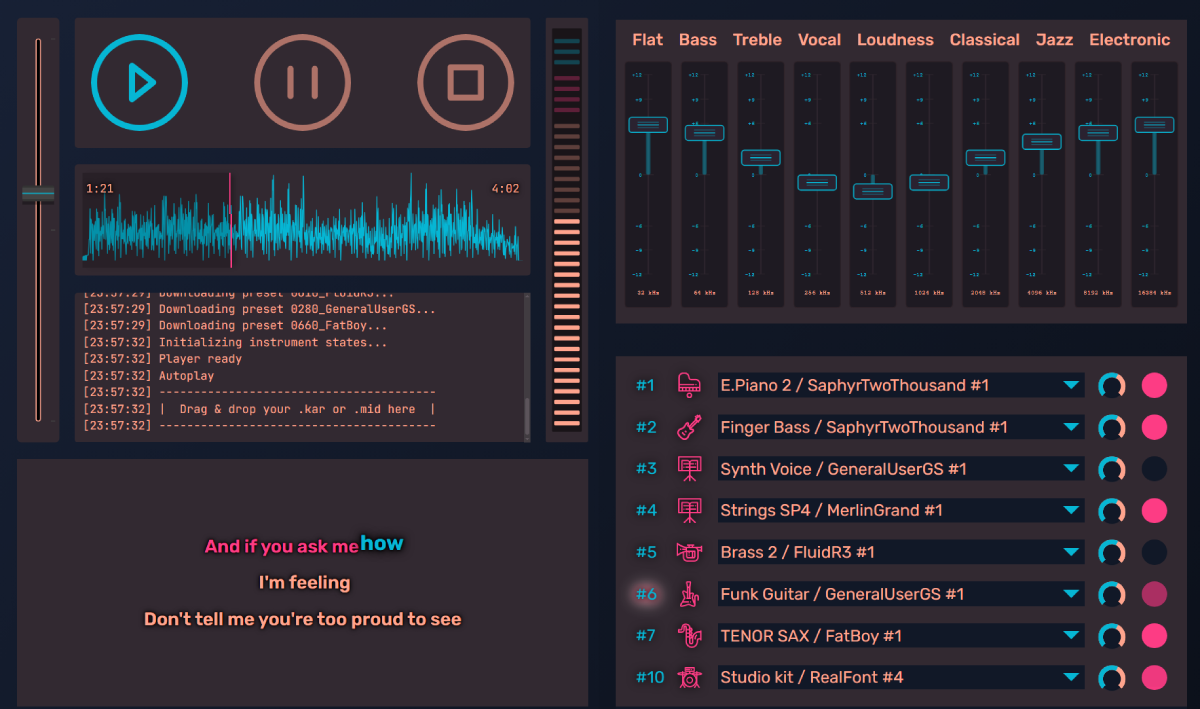
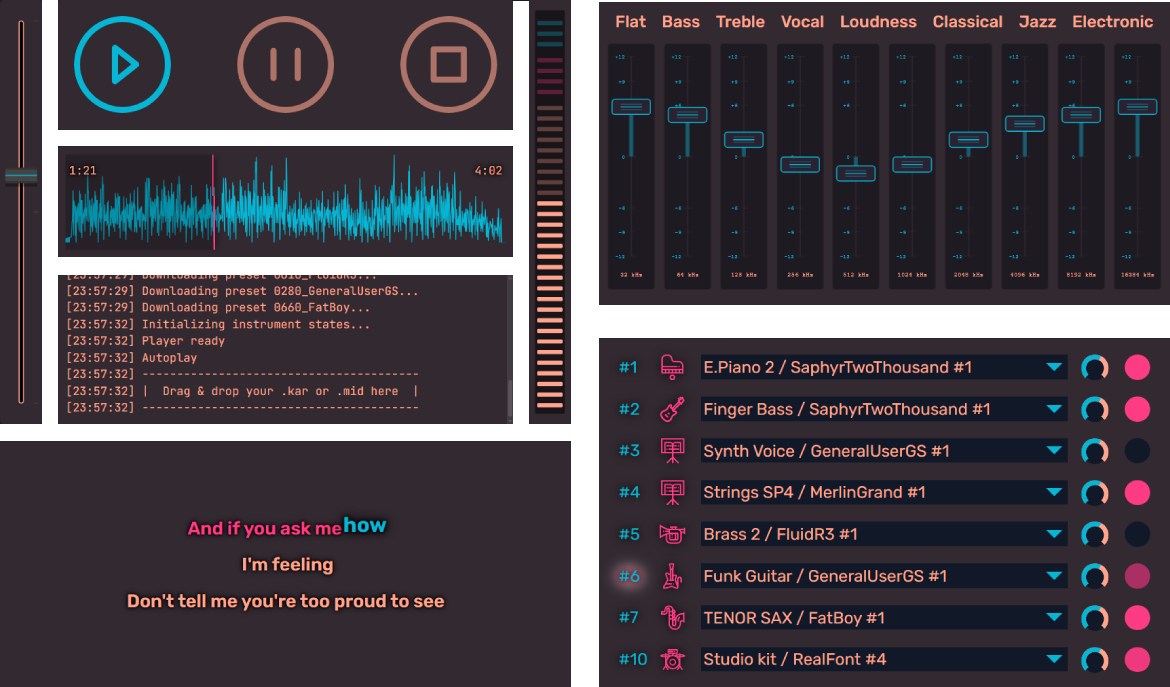
Change demo screenshot

diff --git a/src/index.html b/src/index.html
@@ -31,7 +31,7 @@
 			<p>WebAudioFonts is a collection of three focused projects that work together to bring high-quality, instrument-rich MIDI playback to any web application — with no plugins, no server-side audio processing, and no heavy runtime dependencies.</p>
 			<p><a href="/demo/">🎵 See full features demo 🎵</a></p>
 			<p><a href="/catalog/">🎼 Browse the full instruments catalog🎼</a></p>
-			<a href="/demo/" style="background: none;"><img src="https://webaudiofonts.com/images/demo.webp" alt="Demo"><br><br></a>
+			<a href="/demo/" style="background: none;"><img src="/images/demo.webp" alt="Demo"><br><br></a>
 
 			<h3>The Stack</h3>
 			<pre class="shema">
